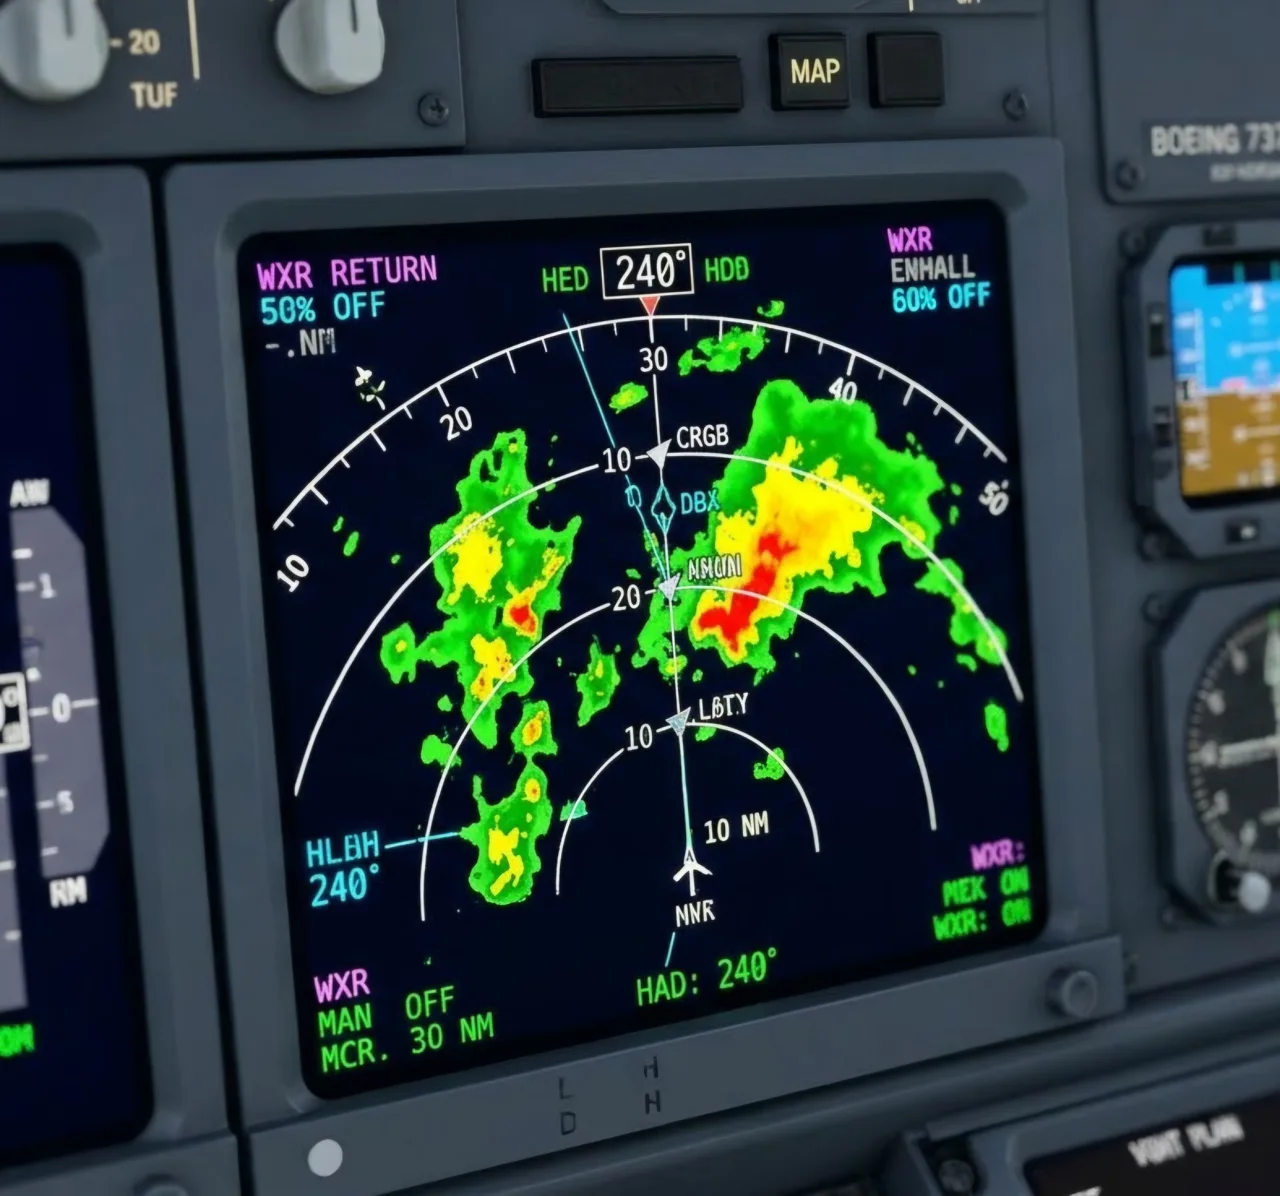
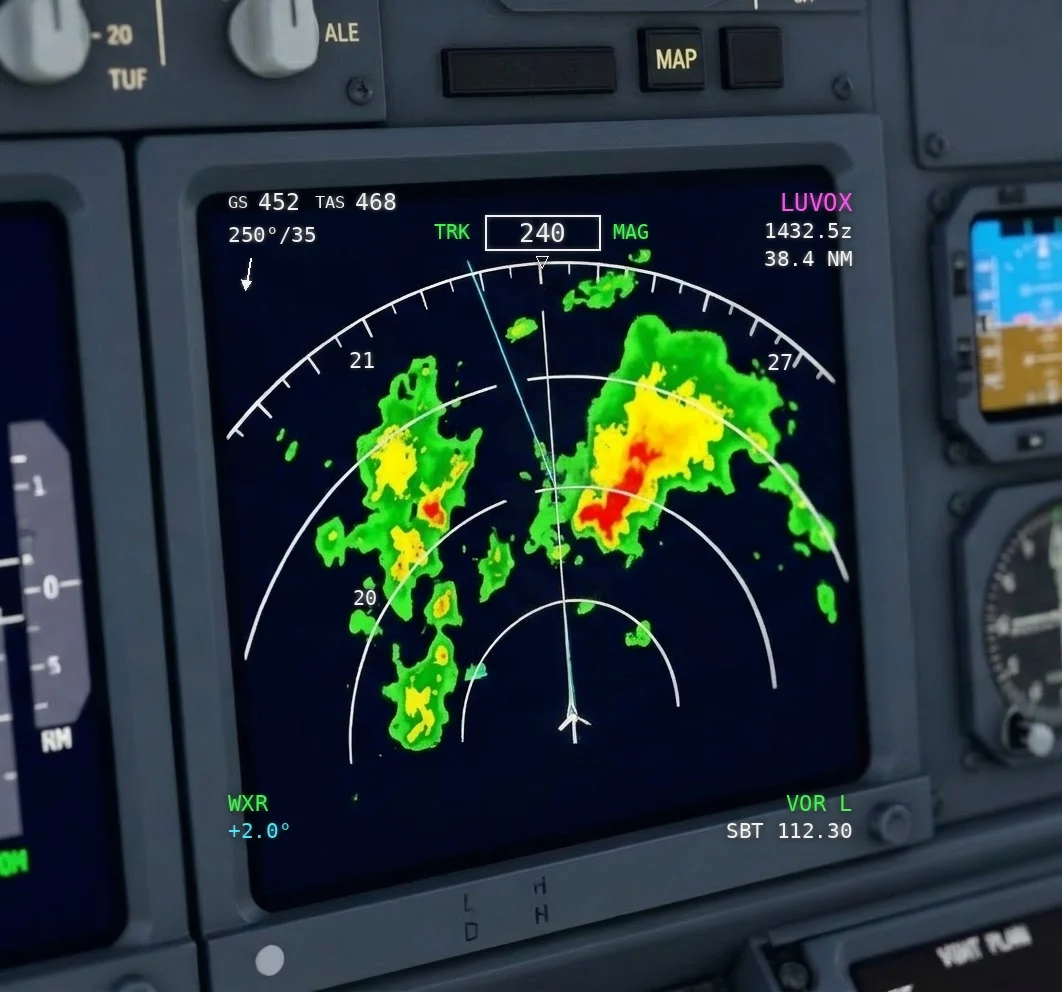
Hangar Escola: nova tela do radar meteorológico com os textos do ND corretos
Claude-Session: https://claude.ai/code/session_01PxKViBYL6qRqF4hkoHqSJb

diff --git a/aviao/sw.js b/aviao/sw.js
@@ -1,7 +1,7 @@
 /* Service worker: o app abre e funciona offline. */
-const CACHE = 'hangar-escola-v222';
+const CACHE = 'hangar-escola-v223';
 // Os arquivos levam "?v=" no index.html: ao mudar a versão, o celular nunca mistura CSS/JS antigo com HTML novo.
-const FILES = ['./', 'index.html', 'style.css?v=222', 'avioes.js?v=222', 'catalogo747.js?v=222', 'cockpit747.js?v=222', 'motor3d.js?v=222', 'motor747.js?v=222', 'meteo.js?v=222', 'radio.js?v=222', 'historia.js?v=222', 'desastres.js?v=222', 'inicio.js?v=222', 'app.js?v=222', 'icon.svg', 'apple-touch-icon.png', 'icon-192.png', 'icon-512.png', 'manifest.webmanifest', 'assets/747-lateral.jpg', 'assets/747-frontal.jpg', 'assets/747-motor.jpg', 'assets/747-superior.png', 'assets/747-lado.webp', 'assets/747-lado-prof.webp', 'assets/747-tras.webp', 'assets/747-tras-trem.webp', 'assets/bank-angle.mp3', 'assets/v1.mp3', 'assets/nuvem-cb.webp', 'assets/nuvem-cu.webp', 'assets/nuvem-ci.webp', 'assets/nuvem-cc.webp', 'assets/nuvem-cs.webp', 'assets/nuvem-ac.webp', 'assets/nuvem-as.webp', 'assets/nuvem-ns.webp', 'assets/nuvem-sc.webp', 'assets/nuvem-st.webp', 'assets/nuvens-atlas.webp', 'assets/historia-1881.webp', 'assets/historia-vevey.webp', 'assets/historia-serraria.webp', 'assets/historia-dominguez.webp', 'assets/historia-curtiss.webp', 'assets/jal123-mapa.webp', 'assets/jal123-haneda.webp', 'assets/jal123-decolagem.webp', 'assets/jal123-cauda.webp', 'assets/jal123-cabine.webp', 'assets/jal123-hidraulico.webp', 'assets/jal123-manetes.webp', 'assets/jal123-montanhas.webp', 'assets/jal123-bilhete.webp', 'assets/jal123-c130.webp', 'assets/jal123-deriva.webp', 'assets/af447-mapa.webp', 'assets/af447-galeao.webp', 'assets/af447-decolagem.webp', 'assets/af447-lua.webp', 'assets/af447-tempestade.webp', 'assets/af447-painel.webp', 'assets/cauda-af.webp', 'assets/cauda-jal.webp', 'assets/cauda-mh.webp', 'assets/cauda-gol.webp', 'assets/cauda-tk.webp', 'assets/tk981-mapa.webp', 'assets/tk981-orly.webp', 'assets/tk981-dc10.webp', 'assets/tk981-porta.webp', 'assets/tk981-ganchos.webp', 'assets/tk981-decolagem.webp', 'assets/tk981-cabos.webp', 'assets/tk981-floresta.webp', 'assets/tk981-saintpathus.webp', 'assets/tk981-memorando.webp', 'assets/tk981-inspecao.webp', 'assets/douglas-brooklyn.webp', 'assets/douglas-fortmyer.webp', 'assets/douglas-annapolis.webp', 'assets/douglas-mit.webp', 'assets/douglas-mb1.webp', 'assets/douglas-barbearia.webp', 'assets/douglas-cloudster.webp', 'assets/douglas-dt.webp', 'assets/douglas-partida.webp', 'assets/douglas-alasca.webp', 'assets/capa-boeing.webp', 'assets/capa-douglas.webp', 'assets/radio-gns430.webp', 'assets/meteo-radar.webp', 'assets/escola-sala.webp', 'assets/tk981-resgate.webp', 'assets/gol1907-mapa.webp', 'assets/gol1907-legacy-sjc.webp', 'assets/gol1907-737.webp', 'assets/gol1907-legacy-voo.webp', 'assets/gol1907-cabine-legacy.webp', 'assets/gol1907-acc.webp', 'assets/gol1907-choque.webp', 'assets/gol1907-queda.webp', 'assets/gol1907-legacy-dano.webp', 'assets/gol1907-painel.webp', 'assets/gol1907-mata.webp', 'assets/gol1907-relatorio.webp', 'assets/gol1907-apagao.webp', 'assets/gol1907-justica.webp', 'assets/gol1907-destrocos.webp', 'assets/gol1907-rumo.webp', 'assets/gol1907-falha.webp', 'assets/gol1907-tcas.webp', 'assets/gol1907-controle.webp', 'assets/af447-pitot.webp', 'assets/af447-pitot-gelo.webp', 'assets/af447-manches.webp', 'assets/af447-estol.webp', 'assets/af447-cabine.webp', 'assets/af447-queda.webp', 'assets/af447-deriva.webp', 'assets/af447-painel-voos.webp', 'assets/af447-fundo.webp', 'assets/af447-relatorio.webp', 'assets/af447-sondas.webp', 'assets/af447-tribunal.webp', 'assets/af447-estol-diagrama.webp', 'assets/mh370-mapa.webp', 'assets/mh370-klia.webp', 'assets/mh370-decolagem.webp', 'assets/mh370-cinto.webp', 'assets/mh370-radar.webp', 'assets/mh370-peninsula.webp', 'assets/mh370-oceano.webp', 'assets/mh370-ultimo-eco.webp', 'assets/mh370-satelite.webp', 'assets/mh370-busca.webp', 'assets/mh370-bluefin.webp', 'assets/mh370-deriva.webp'];
+const FILES = ['./', 'index.html', 'style.css?v=223', 'avioes.js?v=223', 'catalogo747.js?v=223', 'cockpit747.js?v=223', 'motor3d.js?v=223', 'motor747.js?v=223', 'meteo.js?v=223', 'radio.js?v=223', 'historia.js?v=223', 'desastres.js?v=223', 'inicio.js?v=223', 'app.js?v=223', 'icon.svg', 'apple-touch-icon.png', 'icon-192.png', 'icon-512.png', 'manifest.webmanifest', 'assets/747-lateral.jpg', 'assets/747-frontal.jpg', 'assets/747-motor.jpg', 'assets/747-superior.png', 'assets/747-lado.webp', 'assets/747-lado-prof.webp', 'assets/747-tras.webp', 'assets/747-tras-trem.webp', 'assets/bank-angle.mp3', 'assets/v1.mp3', 'assets/nuvem-cb.webp', 'assets/nuvem-cu.webp', 'assets/nuvem-ci.webp', 'assets/nuvem-cc.webp', 'assets/nuvem-cs.webp', 'assets/nuvem-ac.webp', 'assets/nuvem-as.webp', 'assets/nuvem-ns.webp', 'assets/nuvem-sc.webp', 'assets/nuvem-st.webp', 'assets/nuvens-atlas.webp', 'assets/historia-1881.webp', 'assets/historia-vevey.webp', 'assets/historia-serraria.webp', 'assets/historia-dominguez.webp', 'assets/historia-curtiss.webp', 'assets/jal123-mapa.webp', 'assets/jal123-haneda.webp', 'assets/jal123-decolagem.webp', 'assets/jal123-cauda.webp', 'assets/jal123-cabine.webp', 'assets/jal123-hidraulico.webp', 'assets/jal123-manetes.webp', 'assets/jal123-montanhas.webp', 'assets/jal123-bilhete.webp', 'assets/jal123-c130.webp', 'assets/jal123-deriva.webp', 'assets/af447-mapa.webp', 'assets/af447-galeao.webp', 'assets/af447-decolagem.webp', 'assets/af447-lua.webp', 'assets/af447-tempestade.webp', 'assets/af447-painel.webp', 'assets/cauda-af.webp', 'assets/cauda-jal.webp', 'assets/cauda-mh.webp', 'assets/cauda-gol.webp', 'assets/cauda-tk.webp', 'assets/tk981-mapa.webp', 'assets/tk981-orly.webp', 'assets/tk981-dc10.webp', 'assets/tk981-porta.webp', 'assets/tk981-ganchos.webp', 'assets/tk981-decolagem.webp', 'assets/tk981-cabos.webp', 'assets/tk981-floresta.webp', 'assets/tk981-saintpathus.webp', 'assets/tk981-memorando.webp', 'assets/tk981-inspecao.webp', 'assets/douglas-brooklyn.webp', 'assets/douglas-fortmyer.webp', 'assets/douglas-annapolis.webp', 'assets/douglas-mit.webp', 'assets/douglas-mb1.webp', 'assets/douglas-barbearia.webp', 'assets/douglas-cloudster.webp', 'assets/douglas-dt.webp', 'assets/douglas-partida.webp', 'assets/douglas-alasca.webp', 'assets/capa-boeing.webp', 'assets/capa-douglas.webp', 'assets/radio-gns430.webp', 'assets/meteo-radar.webp', 'assets/escola-sala.webp', 'assets/tk981-resgate.webp', 'assets/gol1907-mapa.webp', 'assets/gol1907-legacy-sjc.webp', 'assets/gol1907-737.webp', 'assets/gol1907-legacy-voo.webp', 'assets/gol1907-cabine-legacy.webp', 'assets/gol1907-acc.webp', 'assets/gol1907-choque.webp', 'assets/gol1907-queda.webp', 'assets/gol1907-legacy-dano.webp', 'assets/gol1907-painel.webp', 'assets/gol1907-mata.webp', 'assets/gol1907-relatorio.webp', 'assets/gol1907-apagao.webp', 'assets/gol1907-justica.webp', 'assets/gol1907-destrocos.webp', 'assets/gol1907-rumo.webp', 'assets/gol1907-falha.webp', 'assets/gol1907-tcas.webp', 'assets/gol1907-controle.webp', 'assets/af447-pitot.webp', 'assets/af447-pitot-gelo.webp', 'assets/af447-manches.webp', 'assets/af447-estol.webp', 'assets/af447-cabine.webp', 'assets/af447-queda.webp', 'assets/af447-deriva.webp', 'assets/af447-painel-voos.webp', 'assets/af447-fundo.webp', 'assets/af447-relatorio.webp', 'assets/af447-sondas.webp', 'assets/af447-tribunal.webp', 'assets/af447-estol-diagrama.webp', 'assets/mh370-mapa.webp', 'assets/mh370-klia.webp', 'assets/mh370-decolagem.webp', 'assets/mh370-cinto.webp', 'assets/mh370-radar.webp', 'assets/mh370-peninsula.webp', 'assets/mh370-oceano.webp', 'assets/mh370-ultimo-eco.webp', 'assets/mh370-satelite.webp', 'assets/mh370-busca.webp', 'assets/mh370-bluefin.webp', 'assets/mh370-deriva.webp'];
 
 self.addEventListener('install', (e) => {
   e.waitUntil(caches.open(CACHE).then((c) => c.addAll(FILES)).then(() => self.skipWaiting()));

diff --git a/aviao/index.html b/aviao/index.html
@@ -17,7 +17,7 @@
   <link rel="preconnect" href="https://fonts.googleapis.com">
   <link rel="preconnect" href="https://fonts.gstatic.com" crossorigin>
   <link href="https://fonts.googleapis.com/css2?family=Barlow+Condensed:wght@500;600;700&family=IBM+Plex+Mono:wght@400;500&family=IBM+Plex+Sans:wght@400;500;600&display=swap" rel="stylesheet">
-  <link rel="stylesheet" href="style.css?v=222">
+  <link rel="stylesheet" href="style.css?v=223">
 </head>
 <body>
   <!-- Intro: o avião decola pela pista iluminada e aparece o nome do app (toque para pular) -->
@@ -671,7 +671,7 @@
       <div class="met">
         <figure class="card rd__foto">
           <img src="assets/meteo-radar.webp" alt="Tela de navegação de um Boeing 737 com o radar meteorológico mostrando áreas de chuva em verde, amarelo e vermelho" loading="lazy" draggable="false">
-          <figcaption><b>O radar meteorológico na cabine.</b> Na tela de navegação (ND), as chuvas aparecem por cores: verde é chuva leve, amarelo é moderada e vermelho é forte, onde costuma haver turbulência. Os arcos marcam a distância à frente do avião, que fica embaixo, no centro. <i>(imagem ilustrativa)</i></figcaption>
+          <figcaption><b>O radar meteorológico na cabine.</b> Na tela de navegação (ND), as chuvas aparecem por cores: verde é chuva leve, amarelo é moderada e vermelho é forte, onde costuma haver turbulência. O avião é o símbolo embaixo, no centro, e os arcos marcam a distância à frente dele. No alto, a trajetória (TRK 240). Nos cantos, a velocidade e o vento, o próximo ponto da rota (LUVOX), o radar ligado com a antena inclinada 2° para cima e o rádio VOR. <i>(imagem ilustrativa)</i></figcaption>
         </figure>
         <div class="card met__atlas">
           <canvas id="metAtlas" aria-label="Os tipos de nuvens por altitude. Toque numa nuvem."></canvas>
@@ -1003,17 +1003,17 @@
       </div>
     </section>
   </aside>
-  <script src="avioes.js?v=222"></script>
-  <script src="catalogo747.js?v=222"></script>
-  <script src="cockpit747.js?v=222"></script>
-  <script src="motor3d.js?v=222"></script>
-  <script src="motor747.js?v=222"></script>
-  <script src="meteo.js?v=222"></script>
-  <script src="radio.js?v=222"></script>
-  <script src="historia.js?v=222"></script>
-  <script src="desastres.js?v=222"></script>
-  <script src="inicio.js?v=222"></script>
-  <script src="app.js?v=222"></script>
+  <script src="avioes.js?v=223"></script>
+  <script src="catalogo747.js?v=223"></script>
+  <script src="cockpit747.js?v=223"></script>
+  <script src="motor3d.js?v=223"></script>
+  <script src="motor747.js?v=223"></script>
+  <script src="meteo.js?v=223"></script>
+  <script src="radio.js?v=223"></script>
+  <script src="historia.js?v=223"></script>
+  <script src="desastres.js?v=223"></script>
+  <script src="inicio.js?v=223"></script>
+  <script src="app.js?v=223"></script>
   <script>
     // No APK os arquivos já vêm dentro do app; o service worker é só para o site.
     const nativo = !!(window.Capacitor && window.Capacitor.isNativePlatform && window.Capacitor.isNativePlatform());
